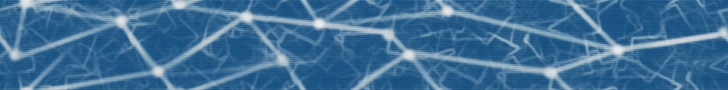
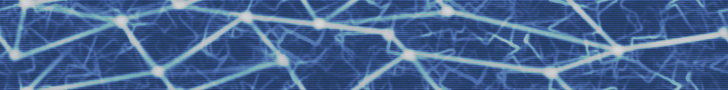
only style

diff --git a/public/stylesheets/custom.css b/public/stylesheets/custom.css
@@ -3,6 +3,9 @@ body {
 	margin: 0px;
 	background: #515b62;
 	min-width: 750px;
+	background-image: url("../images/dnsapp2.png");
+	background-repeat: repeat;
+	background-position: top left;
 }
 
 a {
@@ -25,6 +28,11 @@ li {
 	border-radius: 10px;
 }
 
+header .round {
+	-moz-box-shadow: 4px 4px 7px #000000;
+	-webkit-box-shadow: 4px 4px 7px #000000;
+}
+
 header {
 	text-align: center;
 	color : #ffffff;
@@ -38,6 +46,17 @@ header {
 
 header .round {
 	opacity: 0.8;
+	background: #1f384d;
+	transition: background .4s ease-in, box-shadow .5s ease-in;
+        -moz-transition: background .4s ease-in, box-shadow .5s ease-in;
+	-o-transition: background .4s ease-in, box-shadow .5s ease-in;
+	-webkit-transition: background .4s ease-in, box-shadow .5s ease-in;
+}
+
+header .round:hover {
+	background: #3f586d;
+        -moz-box-shadow: 0px 0px 30px #abd9ff;
+        -webkit-box-shadow: 0px 0px 30px #abd9ff;
 }
 
 header a, footer a {
@@ -54,7 +73,7 @@ header a:hover, footer a:hover {
 #Logo {
 	float: left;
 	font-size: xx-large;
-	background: #1f384d;
+	#background: #1f384d;
 	margin-top: 20px;
 	margin-left: 20px;
 	padding: 10px;
@@ -67,7 +86,7 @@ header a:hover, footer a:hover {
 
 #Profile {
 	float: right;
-	background: #1f384d;
+	#background: #1f384d;
 	margin-top: 20px;
 	margin-right: 20px;
 	padding-left: 15px;
@@ -116,19 +135,30 @@ header nav {
 	border-top: solid 3px #afe800;
 }
 
+footer {
+	border-bottom: solid 3px #afe800;
+}
+
 .gray {
 	background: #cccccc;
 }
 
+.right_gradient {
+	background: blue;
+	float: right;
+}
+
 #Content {
 	width: 640px;
-	min-height: 450px;
+        min-height: 450px;
 	margin-left: auto;
 	margin-right: auto;
 	background-color: white;
 	padding: 20px;
 	padding-left: 25px;
 	padding-right: 25px;
+	-moz-box-shadow: 0px 0px 20px #000000;
+	-webkit-box-shadow: 0px 0px 20px #000000;
 }
 
 footer {
@@ -272,6 +302,10 @@ table.dns td:last-child {
 	text-align: right;
 }
 
+.search label {
+	margin-left: 10px;
+}
+
 .pagination {
 	text-align: center;
 	background: #c0c0c0;
@@ -280,5 +314,8 @@ table.dns td:last-child {
 	-moz-border-radius: 5px;
 	-webkit-border-radius: 5px;
 	border-radius: 5px;
+}
 
+.end {
+	height: 50px;
 }
